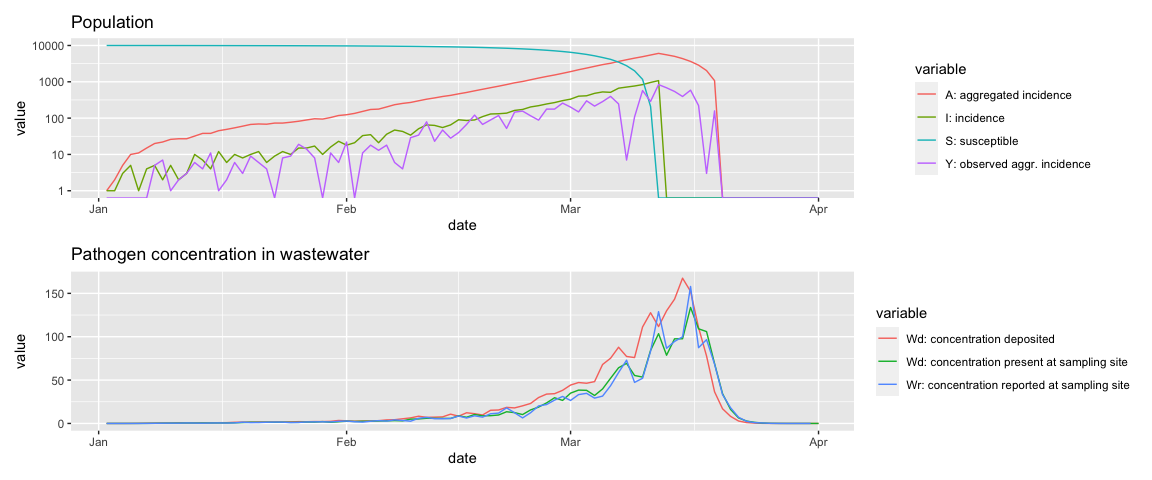
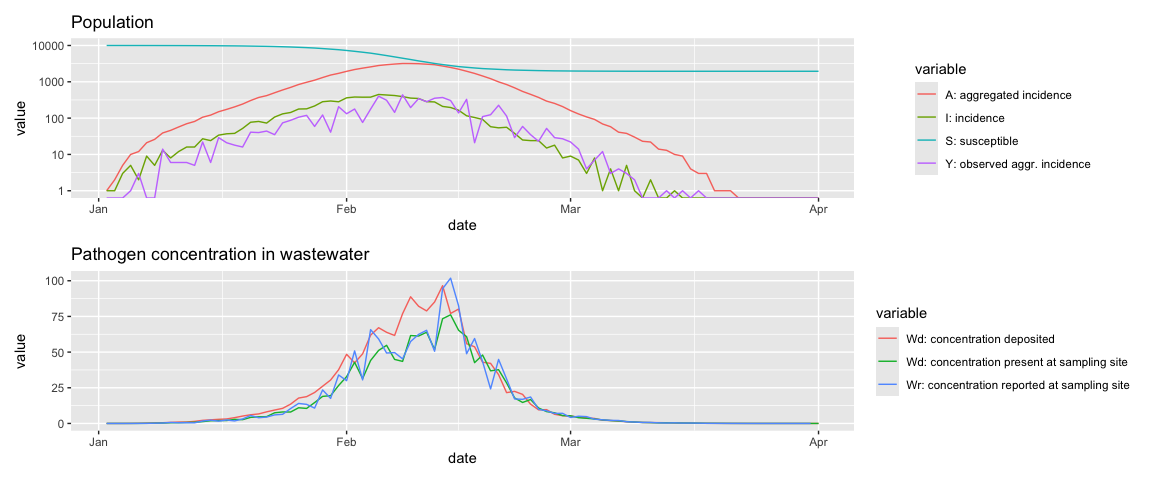
fit example and various fixes for README

diff --git a/README.md b/README.md
@@ -22,14 +22,26 @@ SEIR Epidemic Model and the Renewal Equation, SIAM J. Appl. Math., 78
 
 The renewal equation of the pathogen transmission process is as follows:
 
-![i(t) = e^{-\alpha}\\ \mathcal{R}\_0 \\ B(t) \sum\_{k=1}^\ell g(k)i(t-k)](https://latex.codecogs.com/png.image?%5Cdpi%7B110%7D&space;%5Cbg_white&space;i%28t%29%20%3D%20e%5E%7B-%5Calpha%7D%5C%2C%20%5Cmathcal%7BR%7D_0%20%5C%2C%20B%28t%29%20%5Csum_%7Bk%3D1%7D%5E%5Cell%20g%28k%29i%28t-k%29 "i(t) = e^{-\alpha}\, \mathcal{R}_0 \, B(t) \sum_{k=1}^\ell g(k)i(t-k)")
+![i(t) = \left(\frac{S(t)}{N}\right)^{\alpha}\\ \mathcal{R}\_0 \\ B(t) \sum\_{k=1}^\ell g(k)i(t-k)](https://latex.codecogs.com/png.image?%5Cdpi%7B110%7D&space;%5Cbg_white&space;i%28t%29%20%3D%20%5Cleft%28%5Cfrac%7BS%28t%29%7D%7BN%7D%5Cright%29%5E%7B%5Calpha%7D%5C%2C%20%5Cmathcal%7BR%7D_0%20%5C%2C%20B%28t%29%20%5Csum_%7Bk%3D1%7D%5E%5Cell%20g%28k%29i%28t-k%29 "i(t) = \left(\frac{S(t)}{N}\right)^{\alpha}\, \mathcal{R}_0 \, B(t) \sum_{k=1}^\ell g(k)i(t-k)")
+
+![S(t) = \max(0, S(t-1) - i(t))](https://latex.codecogs.com/png.image?%5Cdpi%7B110%7D&space;%5Cbg_white&space;S%28t%29%20%3D%20%5Cmax%280%2C%20S%28t-1%29%20-%20i%28t%29%29 "S(t) = \max(0, S(t-1) - i(t))")
 
 where
 ![i(t)](https://latex.codecogs.com/png.image?%5Cdpi%7B110%7D&space;%5Cbg_white&space;i%28t%29 "i(t)")
 is the incidence at time
-![t](https://latex.codecogs.com/png.image?%5Cdpi%7B110%7D&space;%5Cbg_white&space;t "t"),  
+![t](https://latex.codecogs.com/png.image?%5Cdpi%7B110%7D&space;%5Cbg_white&space;t "t"),
 ![\mathcal{R}\_0](https://latex.codecogs.com/png.image?%5Cdpi%7B110%7D&space;%5Cbg_white&space;%5Cmathcal%7BR%7D_0 "\mathcal{R}_0")
-is the basic reproduction number, TO FINISH…
+is the basic reproduction number,
+![S_t](https://latex.codecogs.com/png.image?%5Cdpi%7B110%7D&space;%5Cbg_white&space;S_t "S_t")
+are the number of susceptible individuals at time
+![t](https://latex.codecogs.com/png.image?%5Cdpi%7B110%7D&space;%5Cbg_white&space;t "t"),
+![N](https://latex.codecogs.com/png.image?%5Cdpi%7B110%7D&space;%5Cbg_white&space;N "N")
+is the total population size,
+![g](https://latex.codecogs.com/png.image?%5Cdpi%7B110%7D&space;%5Cbg_white&space;g "g")
+is the intrinsic generation interval distribution and
+![B](https://latex.codecogs.com/png.image?%5Cdpi%7B110%7D&space;%5Cbg_white&space;B "B")
+a function to change the transmission rate with respect to time (e.g.,
+to implement public health measures, vaccination campaigns, etc.).
 
 ## Simulation example
 
@@ -38,19 +50,10 @@ population and the pathogen concentration in the wastewater.
 
 ``` r
 library(reem)
-library(lubridate)
+library(snowfall)
 ```
 
-    ## 
-    ## Attaching package: 'lubridate'
-
-    ## The following objects are masked from 'package:base':
-    ## 
-    ##     date, intersect, setdiff, union
-
 ``` r
-library(patchwork)
-
 # Define model parameters
 
 prms = list(
@@ -60,9 +63,9 @@ prms = list(
   i0prop  = 1e-3,  # initial proportion of the population infected
   date.start = lubridate::ymd('2022-01-01'), # start date of the epidemic
   start.delta = 0, 
-  R0      = 1.5, # Basic reproduction number
+  R0      = 2.0, # Basic reproduction number
   N       = 1e4, # population size
-  alpha   = -10, # transmission heterogeneity (alpha=-Inf: homogeneous)
+  alpha   = 0, # transmission heterogeneity (alpha=0: homogeneous)
   I.init  = c(1,1,3,5), # initial incidence (overwritten in fit ABC)
   lag     = 7,   # Aggregation window for clinical reports
   rho     = 0.1, # mean reporting ratio
@@ -91,9 +94,9 @@ obj$print_prms()
     ## i0prop  =  0.001 
     ## date.start  =  18993 
     ## start.delta  =  0 
-    ## R0  =  1.5 
+    ## R0  =  2 
     ## N  =  10000 
-    ## alpha  =  -10 
+    ## alpha  =  0 
     ## I.init  =  1 1 3 5 
     ## lag  =  7 
     ## rho  =  0.1 
@@ -118,8 +121,171 @@ plot(patchwork::wrap_plots(g, ncol = 1))
 
 ![](README_files/figure-gfm/plot_epi-1.png)<!-- -->
 
-`devtools::build_readme()`
-
 ## Fit example
 
-((TO DO))
+If we attach observation data (from clinical and/or wastewater
+surveillance), to a `reem` object, then it is possible to fit its model
+parameters to these data. The example below shows how to do this.
+
+First, let’s create synthetic observation data from the simulation
+example above. We use synthetic data (as opposed to real data) because
+we to assess the accuracy of the fit. The synthetic data are generated
+from the vey same model `reem` where we know all the parameters.
+
+``` r
+# we use the example above and make a copy of its
+# simulated epidemics. The time series will be the "observations".
+
+sim.data = simepi
+
+# Set the date for "today"
+asof = lubridate::ymd('2023-03-01') 
+
+# Retrieve the simulated observations
+obs.cl = dplyr::filter(sim.data$obs.cl, date <= asof)
+obs.ww = dplyr::filter(simepi$obs.ww, date <= asof)
+
+# shift the dates such that they 
+# do not perfectly align with the simulation
+obs.cl$t <- obs.cl$t + 1
+obs.cl$date <- obs.cl$date + 1
+
+# Attached (simulated) data to new `reem` object:
+prms$t.obs.cl <- NULL
+prms$t.obs.ww <- NULL
+obj  = new('reem', 
+           name = 'foo2', 
+           prms = prms, 
+           obs.cl = obs.cl,
+           obs.ww = obs.ww,
+           is.fitted = FALSE)
+```
+
+Now, we set up the fitting algorithm. This algorithm is an Approximate
+Bayesian Computation (ABC), which is a very straightforward and robust
+Bayesian method but not very efficient.
+
+``` r
+# Define the parameters for the ABC fitting algorithm
+prm.abc = list(
+  n.abc = 500,   # Total number of ABC iterations (the larger the better)
+  n.sim = 0,     # Number of simulation for a given set of prior parameters. `0` for deterministic, else`8` should be enough
+  p.abc = 0.02,  # Acceptance probability (the lower the better)
+  n.cores = 4,   # number of cores used for parallel computing
+  use.cl = TRUE, # use clinical observations in the fit?
+  use.ww = TRUE, # use wastewater observation in the fit?
+  err.type = 'L2'# Type of error calculated during the fit.
+)
+
+# Define the priors of the parameters to be fitted:
+prms.to.fit = list(
+  # Gamma distrib. with mean 2.5 and variance 0.25:
+  R0          = list('gamma', 2.5, 0.251), 
+  # Other prior distributions definition self-explanatory:
+  alpha       = list('norm', 2, 3),
+  i0prop      = list('unif', -5, -2),
+  start.delta = list('unif_int', -7, 7) # `unif_int` = uniform with integers
+)
+```
+
+Now that all the parameters for the ABC fit have been defined, we can
+launch the actual fit. Note that we use the object `obj` already built
+and we call its *member function* named `fit_abc()`:
+
+``` r
+#  Launch the fit 
+thefit = obj$fit_abc(prm.abc, prms.to.fit)  
+```
+
+    ## 
+    ## ----- ABC FIT -----
+    ## 
+    ## Target data sources :
+    ##   clinical   = yes
+    ##   wastewater = yes
+    ## 
+    ## Number of priors     : 500
+    ## Number of posteriors : 10 (accept ratio = 0.02)
+    ## Number of cores      : 4 (125 iters per core)
+    ## 
+    ## Data horizon : 92 (days) 
+    ## 
+    ## ---------------------
+
+    ## Warning in searchCommandline(parallel, cpus = cpus, type = type, socketHosts =
+    ## socketHosts, : Unknown option on commandline:
+    ## rmarkdown::render('/Users/davidchampredon/GitHub/reem/README.Rmd',~+~~+~encoding~+~
+
+    ## R Version:  R version 4.2.0 (2022-04-22)
+
+    ## snowfall 1.84-6.3 initialized (using snow 0.4-4): parallel execution on 4 CPUs.
+
+    ## Library dplyr loaded.
+
+    ## Library dplyr loaded in cluster.
+
+    ## 
+    ## Attaching package: 'dplyr'
+
+    ## The following objects are masked from 'package:stats':
+    ## 
+    ##     filter, lag
+
+    ## The following objects are masked from 'package:base':
+    ## 
+    ##     intersect, setdiff, setequal, union
+
+    ## Library purrr loaded.
+
+    ## Library purrr loaded in cluster.
+
+    ## 
+    ## Stopping cluster
+
+Once the ABC fit is completed, we can call built-in functions to assess
+the goodness of fit.
+
+First, lets visualize the posterior time series trajectories for the the
+clinical cases and wastewater concentrations.
+
+``` r
+gg = obj$plot_fit()
+
+plot(gg$traj.cl)
+```
+
+![](README_files/figure-gfm/plot_fit_results-1.png)<!-- -->
+
+``` r
+plot(gg$traj.ww)
+```
+
+![](README_files/figure-gfm/plot_fit_results-2.png)<!-- -->
+
+We can also plot the posterior distributions of the fitted parameters
+(with their prior distribution overlayed in grey):
+
+``` r
+plot(gg$post.prms)
+```
+
+![](README_files/figure-gfm/plot%20posteriors-1.png)<!-- -->
+
+This is plotting the pairwise 2D posterior densities, to check for any
+strong correlations between fitted parameters
+
+``` r
+plot(gg$post.prms.2d)
+```
+
+![](README_files/figure-gfm/plot%202D%20posteriors-1.png)<!-- -->
+
+And finally, we can assess the efficiency of the ABC algorithm by
+plotting the posterior distance values as a function of the sorted
+iterations
+
+``` r
+plot(gg$dist)
+```
+
+![](README_files/figure-gfm/plot%20fitted%20distances-1.png)<!-- -->
